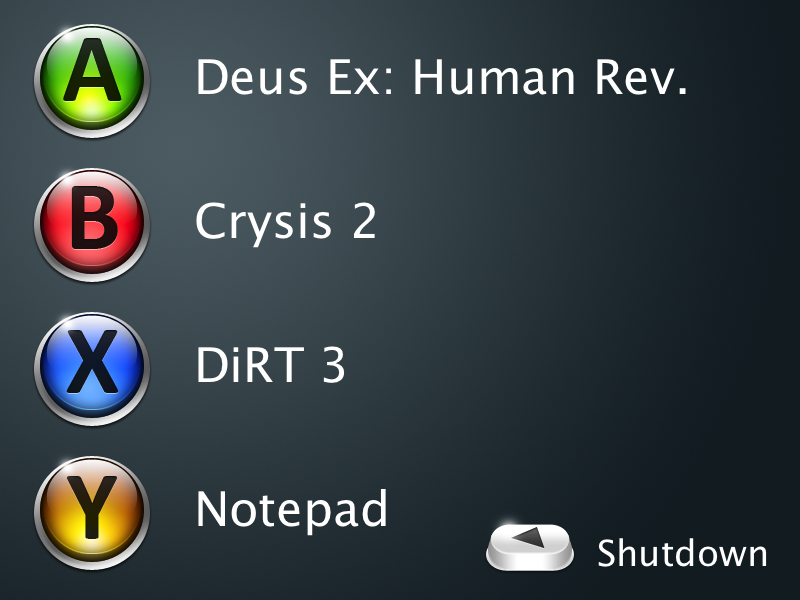
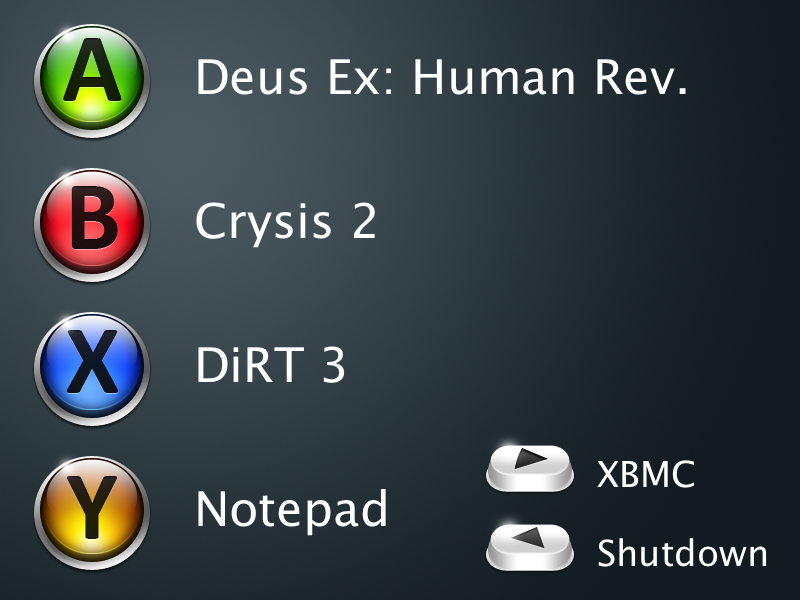
Put paths in a config file

Changed region(s): [[0.5938, 0.72, 0.7188, 0.84], [0.75, 0.75, 0.875, 0.81]]

diff --git a/GamepadStarter/main.cpp b/GamepadStarter/main.cpp
@@ -1,17 +1,29 @@
-#include "Gamepad.h"
-#include <iostream>
-#include <string>
+#define WIN32_LEAN_AND_MEAN
+
+#include <windows.h>
 #include <shellapi.h>
 #include <objidl.h>
 #include <gdiplus.h>
+#include <string>
+
+#include "Gamepad.h"
 
 using namespace std;
 using namespace Gdiplus;
 
 #pragma comment (lib, "Gdiplus.lib")
 
-void ExecuteApp(wstring workingDir, wstring exeName, wstring arguments) {
-	wstring fullPath = workingDir + L"/" + exeName;
+typedef struct t_path {
+	char button[30];
+	char dir[256];
+	char exe[50];
+};
+
+struct t_path paths[512];
+int nr_paths;
+
+void ExecuteApp(string workingDir, string exeName, string arguments) {
+	string fullPath = workingDir + "/" + exeName;
 
 	SHELLEXECUTEINFO execInfo = {0};
 	execInfo.cbSize = sizeof(SHELLEXECUTEINFO);
@@ -65,26 +77,60 @@ void ShutdownSystem() {
 		SHTDN_REASON_FLAG_PLANNED);
 }
 
-void SampleControllerState(Gamepad* controller) {
+void ReadPaths() {
+	nr_paths = 0;
+
+	FILE *file;
+	fopen_s(&file, "paths.cfg", "r");
+
+	char buffer[1024];
+	char seps[] = ",\n";
+	char *next_token;
+
+	while (fgets(buffer, 1024, file)) {
+		strcpy_s(paths[nr_paths].button, 30, strtok_s(buffer, seps, &next_token));
+		strcpy_s(paths[nr_paths].dir, 256, strtok_s(NULL, seps, &next_token));
+		strcpy_s(paths[nr_paths].exe, 50, strtok_s(NULL, seps, &next_token));
+
+		nr_paths++;
+	}
+
+	fclose(file);
+}
+
+void SampleControllerState(HWND hWnd, Gamepad* controller) {
 	if (controller->IsConnected()) {
-		if (controller->GetState().Gamepad.wButtons & XINPUT_GAMEPAD_A) {
-			ExecuteApp(L"C:/Program Files (x86)/SQUARE ENIX/Deus Ex Human Revolution", L"dxhr.exe", L"");
-		}
+		WORD buttonState = controller->GetState().Gamepad.wButtons;
 
-		if (controller->GetState().Gamepad.wButtons & XINPUT_GAMEPAD_B) {
-			ExecuteApp(L"C:/Program Files (x86)/Electronic Arts/Crytek/Crysis 2/bin32", L"Crysis2.exe", L"");
-		}
+		for (int i = 0; i < nr_paths; i++) {
+			t_path path = paths[i];
 
-		if (controller->GetState().Gamepad.wButtons & XINPUT_GAMEPAD_X) {
-			ExecuteApp(L"C:/Program Files (x86)/Codemasters/DiRT 3", L"dirt3.exe", L"");
-		}
+			string button = path.button;
+			string workingDir = path.dir;
+			string exeName = path.exe;
 
-		if (controller->GetState().Gamepad.wButtons & XINPUT_GAMEPAD_Y) {
-			ExecuteApp(L"C:/Windows/system32", L"notepad.exe", L"");
-		}
-
-		if (controller->GetState().Gamepad.wButtons & XINPUT_GAMEPAD_BACK) {
-			ShutdownSystem();
+			if ((button.compare("BUTTON_DPAD_UP") == 0 && (buttonState & XINPUT_GAMEPAD_DPAD_UP)) ||
+				(button.compare("BUTTON_DPAD_DOWN") == 0 && (buttonState & XINPUT_GAMEPAD_DPAD_DOWN)) ||
+				(button.compare("BUTTON_DPAD_LEFT") == 0 && (buttonState & XINPUT_GAMEPAD_DPAD_LEFT)) ||
+				(button.compare("BUTTON_DPAD_RIGHT") == 0 && (buttonState & XINPUT_GAMEPAD_DPAD_RIGHT)) ||
+				(button.compare("BUTTON_START") == 0 && (buttonState & XINPUT_GAMEPAD_START)) ||
+				(button.compare("BUTTON_BACK") == 0 && (buttonState & XINPUT_GAMEPAD_BACK)) ||
+				(button.compare("BUTTON_LEFT_THUMB") == 0 && (buttonState & XINPUT_GAMEPAD_LEFT_THUMB)) ||
+				(button.compare("BUTTON_RIGHT_THUMB") == 0 && (buttonState & XINPUT_GAMEPAD_RIGHT_THUMB)) ||
+				(button.compare("BUTTON_LEFT_SHOULDER") == 0 && (buttonState & XINPUT_GAMEPAD_LEFT_SHOULDER)) ||
+				(button.compare("BUTTON_RIGHT_SHOULDER") == 0 && (buttonState & XINPUT_GAMEPAD_RIGHT_SHOULDER)) ||
+				(button.compare("BUTTON_A") == 0 && (buttonState & XINPUT_GAMEPAD_A)) ||
+				(button.compare("BUTTON_B") == 0 && (buttonState & XINPUT_GAMEPAD_B)) ||
+				(button.compare("BUTTON_X") == 0 && (buttonState & XINPUT_GAMEPAD_X)) ||
+				(button.compare("BUTTON_Y") == 0 && (buttonState & XINPUT_GAMEPAD_Y))) {
+				if (workingDir.compare("SHUTDOWN") == 0 && exeName.compare("SHUTDOWN") == 0) {
+					ShutdownSystem();
+				} else {
+					ShowWindow(hWnd, SW_MINIMIZE);
+					ExecuteApp(workingDir, exeName, "");
+					ShowWindow(hWnd, SW_RESTORE);
+				}
+			}
 		}
 	}
 }
@@ -102,6 +148,8 @@ LRESULT CALLBACK WndProc(HWND hWnd, UINT message, WPARAM wParam, LPARAM lParam) 
 		case WM_CREATE:
 			GdiplusStartup(&gdiplusToken, &gdiplusStartupInput, NULL);
 
+			ReadPaths();
+
 			return 0;
 		case WM_PAINT:
 			hdc = BeginPaint(hWnd, &ps);
@@ -110,7 +158,7 @@ LRESULT CALLBACK WndProc(HWND hWnd, UINT message, WPARAM wParam, LPARAM lParam) 
 
 			return 0;
 		case WM_TIMER:
-			SampleControllerState(controller);
+			SampleControllerState(hWnd, controller);
 
 			return 0;
 		case WM_DESTROY:
@@ -127,7 +175,7 @@ LRESULT CALLBACK WndProc(HWND hWnd, UINT message, WPARAM wParam, LPARAM lParam) 
 INT WINAPI WinMain(HINSTANCE hInstance, HINSTANCE, PSTR, INT iCmdShow)
 {
 	WNDCLASS wndClass = {0};
-	wndClass.lpszClassName = TEXT("GamepadStarter");
+	wndClass.lpszClassName = "GamepadStarter";
 	wndClass.lpfnWndProc = WndProc;
 	wndClass.hInstance = hInstance;
 	wndClass.hIcon = LoadIcon(NULL, IDI_APPLICATION);

diff --git a/GamepadStarter/Gamepad.h b/GamepadStarter/Gamepad.h
@@ -1,8 +1,6 @@
 #ifndef _GAMEPAD_H_
 #define _GAMEPAD_H_
 
-#define WIN32_LEAN_AND_MEAN
-
 #include <windows.h>
 #include <XInput.h>
 
